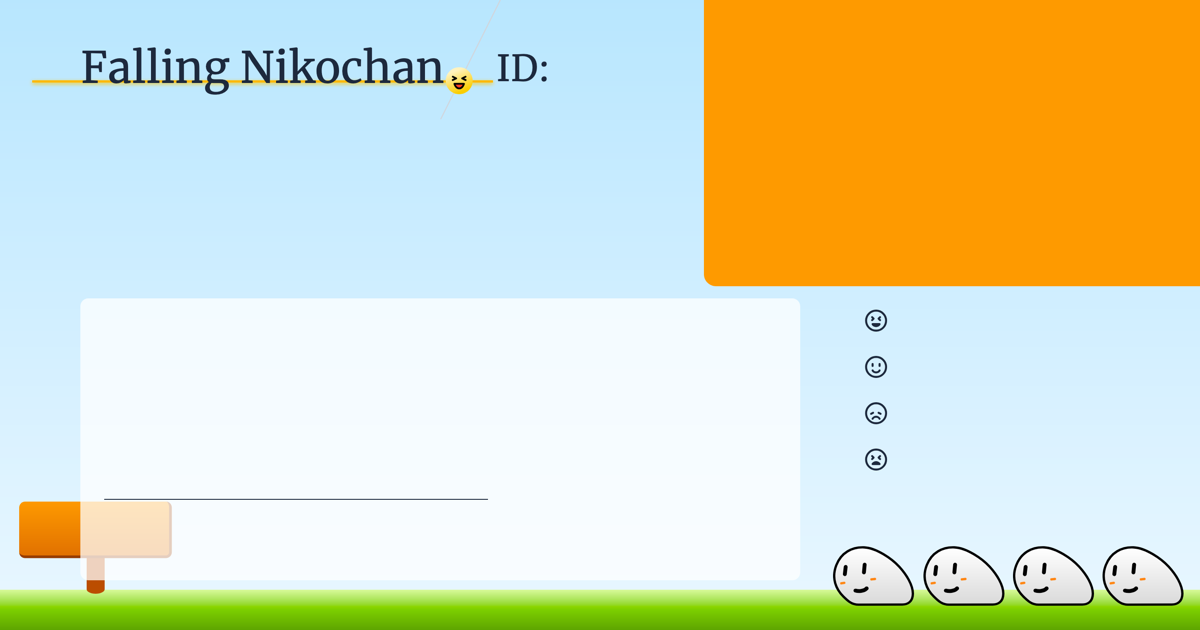
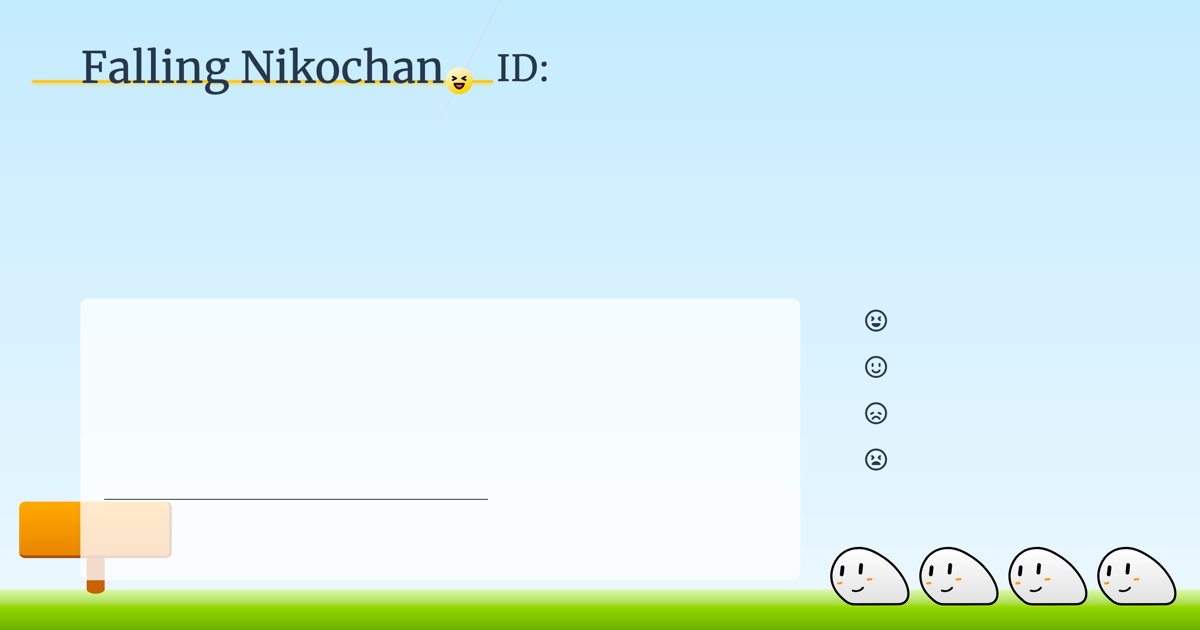
ogTemplateの画像をサムネイル枠がないものに更新

Changed region(s): [[0.5858, 0.0, 1.0, 0.4825], [0.6783, 0.8444, 0.9867, 0.9651]]

diff --git a/frontend/app/[locale]/ogTemplate/result/clientPage.tsx b/frontend/app/[locale]/ogTemplate/result/clientPage.tsx
@@ -34,7 +34,8 @@ export default function OGTemplate() {
       <div
         className={
           "absolute top-0 right-0 w-124 pl-4 pb-4 pt-0 pr-0 rounded-bl-xl " +
-          levelBgColors[1]
+          levelBgColors[1] +
+          (showDummyData ? "" : "invisible")
         }
       >
         <div
@@ -186,7 +187,7 @@ export default function OGTemplate() {
           style={{ top: "-1rem" }}
         />
         <RhythmicalSlime
-          className="-z-10 absolute scale-150 origin-bottom-right "
+          className="-z-10 absolute scale-165 origin-bottom-right "
           style={{
             bottom: "100%",
             right: "1rem",

diff --git a/frontend/app/[locale]/ogTemplate/share/clientPage.tsx b/frontend/app/[locale]/ogTemplate/share/clientPage.tsx
@@ -30,7 +30,8 @@ export default function OGTemplate() {
       <div
         className={
           "absolute top-0 right-0 w-124 pl-4 pb-4 pt-0 pr-0 rounded-bl-xl " +
-          levelBgColors[1]
+          levelBgColors[1] +
+          (showDummyData ? "" : "invisible")
         }
       >
         <div
@@ -88,7 +89,7 @@ export default function OGTemplate() {
           style={{ top: "-1rem" }}
         />
         <RhythmicalSlime
-          className="-z-10 absolute scale-150 origin-bottom-right "
+          className="-z-10 absolute scale-165 origin-bottom-right "
           style={{
             bottom: "100%",
             right: "1rem",
